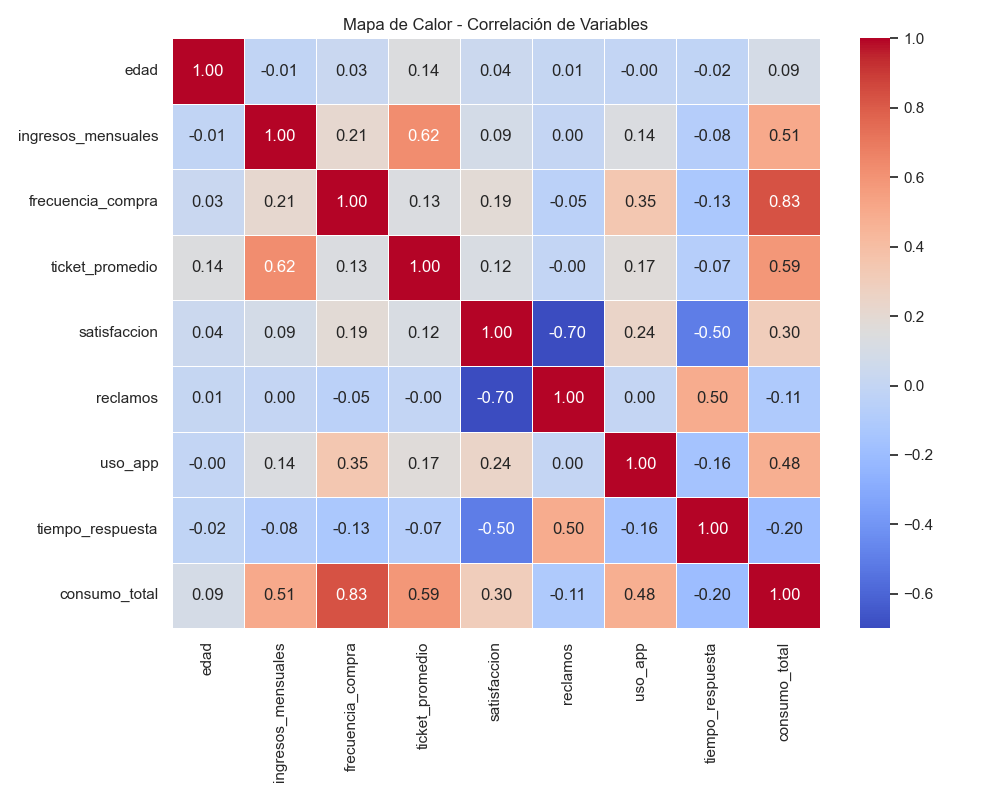
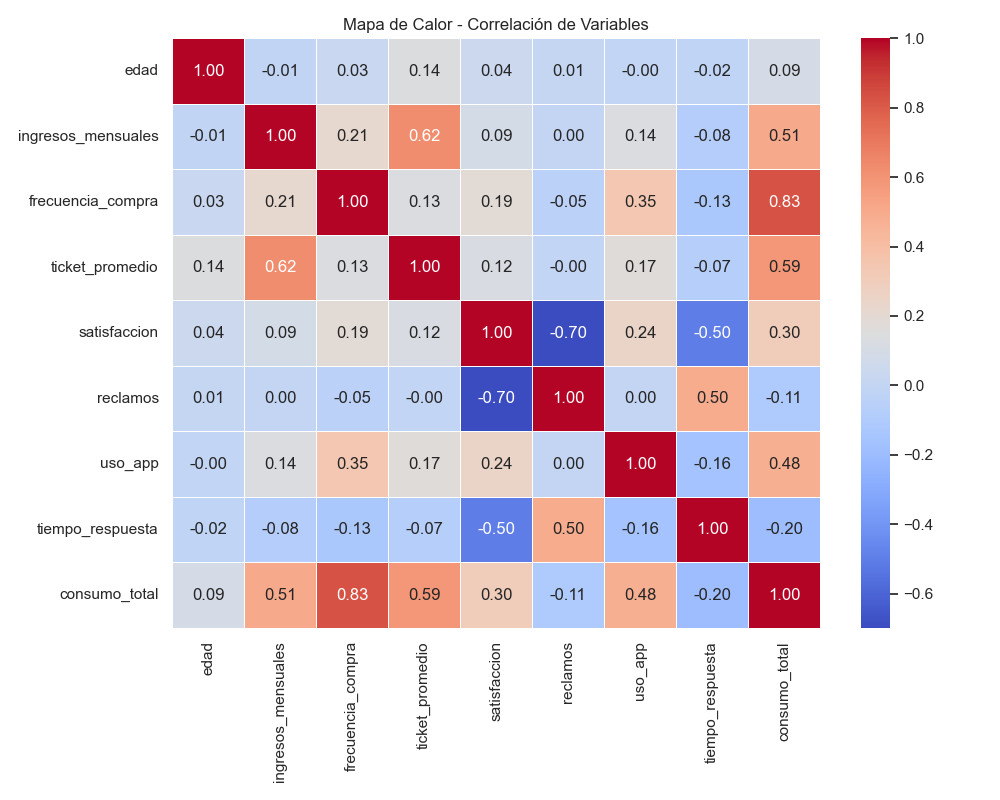
Add files via upload

diff --git a/evidencia/README.md b/evidencia/README.md
@@ -9,3 +9,8 @@ El propósito de esta carpeta es almacenar capturas de pantalla, gráficos clave
 - Capturas de la matriz de correlación o visualización de clusters.
 - Archivos en formato `.png`, `.jpg` o `.pdf`.
 
+## Ejemplos de contenido
+- `matriz_correlacion.png`
+- `clusters_kmeans.jpg`
+- `codigo_limpieza.png`
+- `distribucion_variables.png`